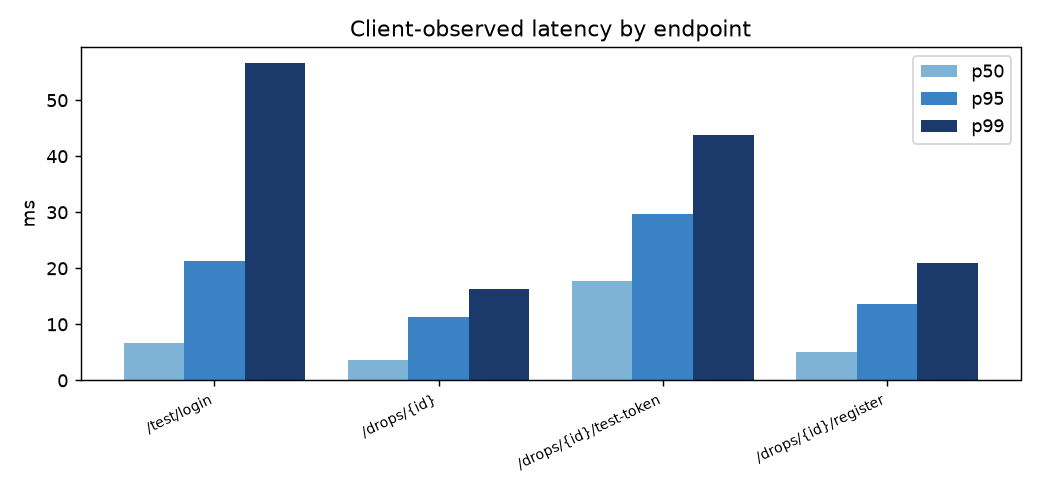
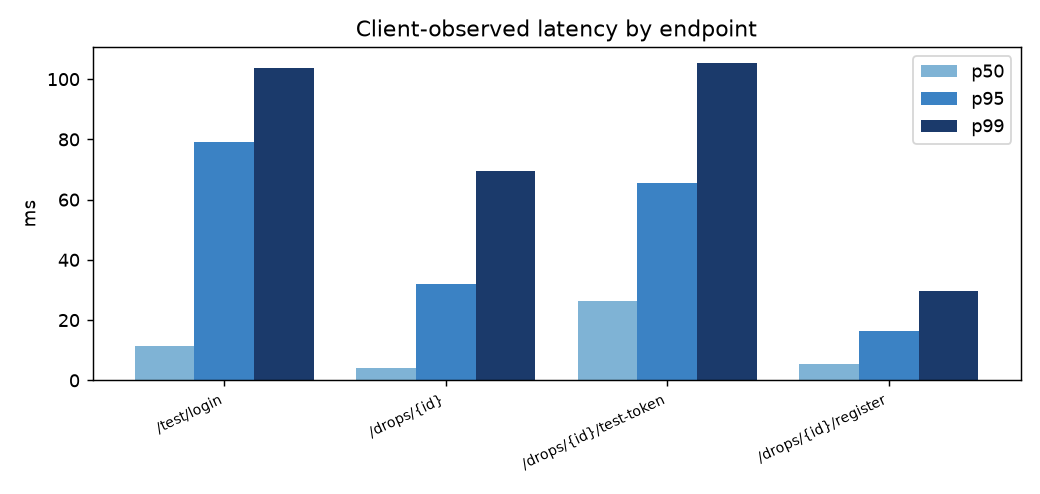
Rerun exp7 malicious demo (detected, audit 1); runbook and script claim only the proof

diff --git a/fair-drop/reports/exp7_malicious_server/summary.md b/fair-drop/reports/exp7_malicious_server/summary.md
@@ -2,7 +2,7 @@
 
 Experiment 7 - malicious server: it silently drops one entry; that fan's verify page must turn red with proof.
 
-*policy under test:* **fairdrop** &nbsp; *duration:* 23.2s &nbsp; *drop:* `exp-exp7_malicious_server-fairdrop-4866bd`
+*policy under test:* **fairdrop** &nbsp; *duration:* 23.3s &nbsp; *drop:* `exp-exp7_malicious_server-fairdrop-4866bd`
 
 ## Traffic
 - verified identities participating: **300** (300 humans, 0 bot identities across 0 operators)
@@ -26,10 +26,10 @@ Experiment 7 - malicious server: it silently drops one entry; that fan's verify 
 
 | endpoint | requests | rps | p50 | p95 | p99 | 5xx/conn errors | error rate | rejected by design (4xx) |
 |---|---|---|---|---|---|---|---|---|
-| POST /test/login | 300 | 13 | 7 ms | 21 ms | 57 ms | 0 | 0.0000% | 0 |
-| GET /drops/{id} | 300 | 13 | 4 ms | 11 ms | 16 ms | 0 | 0.0000% | 0 |
-| POST /drops/{id}/test-token | 300 | 13 | 18 ms | 30 ms | 44 ms | 0 | 0.0000% | 0 |
-| POST /drops/{id}/register | 300 | 13 | 5 ms | 14 ms | 21 ms | 0 | 0.0000% | 0 |
+| POST /test/login | 300 | 13 | 11 ms | 79 ms | 104 ms | 0 | 0.0000% | 0 |
+| GET /drops/{id} | 300 | 13 | 4 ms | 32 ms | 69 ms | 0 | 0.0000% | 0 |
+| POST /drops/{id}/test-token | 300 | 13 | 26 ms | 66 ms | 105 ms | 0 | 0.0000% | 0 |
+| POST /drops/{id}/register | 300 | 13 | 6 ms | 17 ms | 30 ms | 0 | 0.0000% | 0 |
 
 ## Integrity (must be 0)
 
@@ -39,11 +39,11 @@ Experiment 7 - malicious server: it silently drops one entry; that fan's verify 
  "duplicate_entries": 0,
  "duplicate_seats": 0,
  "invalid_transitions": 0,
- "missing_receipts": 0,
+ "missing_receipts": 1,
  "oversold": 0
 }
 ```
-audit chain valid: **True** (2 events)  -> overall: **OK**
+audit chain valid: **True** (607 events)  -> overall: **VIOLATIONS**
 
 ## Independent verification (Python reference verifier)
 
@@ -61,7 +61,7 @@ audit chain valid: **True** (2 events)  -> overall: **OK**
 
 ```
 {
[2 lines of base64/hex data omitted]
  "uid": "t_035906"
 }
 ```
@@ -74,8 +74,8 @@ audit chain valid: **True** (2 events)  -> overall: **OK**
  "victim_sees": "not_included",
  "control_proof_status": 200,
  "reference_verifier_flags_victim": true,
- "integrity_missing_receipts": 0,
- "detected": false
+ "integrity_missing_receipts": 1,
+ "detected": true
 }
 ```
 

diff --git a/fair-drop/DEMO_SCRIPT.md b/fair-drop/DEMO_SCRIPT.md
@@ -50,8 +50,9 @@ Companion to `docs/DEMO_RUNBOOK.md` (full detail). This is the order to talk thr
 ## 3:45 Malicious server
 
 - Admin → Test tools → Malicious demo, or `scripts/run_malicious_demo.sh`. The server silently drops one entry at lock.
-- Open that fan's verify page. The proof for the dropped receipt returns 404 `not_included`; the reference verifier fails on it.
-- **Known gap, say it honestly if asked:** the server's own integrity counter (`missing_receipts`) reported 0 in the last run, so Admin → Audit does not show the drop. See `DEMO_READINESS.md`. Do not promise a red Audit panel until it is fixed.
+- Request the dropped fan's proof: it returns 404 `not_included`. The control fan's proof returns 200.
+- The reference verifier (`verifier/verify.py`) rejects the published bundle for the dropped receipt. That is the evidence: anyone holding the receipt can check it without trusting the server.
+- Admin → Audit `missing_receipts` is a second check. It shows 1 in the 2026-10-04 rerun, but read 0 in an earlier run because that run's audit row was missing. Say so if asked. Do not promise a red Audit panel. See `DEMO_READINESS.md`.
 
 ## 4:15 Bots, visible live
 

diff --git a/fair-drop/docs/DEMO_RUNBOOK.md b/fair-drop/docs/DEMO_RUNBOOK.md
@@ -22,6 +22,6 @@ Also `/story` has a 3D scroll explanation.
 
 **3:00 Kill a replica.** Run exp6 or `scripts/kill_replica.sh 2` while Live monitor is open: replica goes DOWN, traffic continues via failover, comes back, integrity panel stays all zero.
 
-**3:30 Malicious server.** Test tools → Malicious demo (or `scripts/run_malicious_demo.sh`): server drops one entry at lock. Open that fan's verify page: **red banner**, proof fails; Admin → Audit shows `missing_receipts > 0`.
+**3:30 Malicious server.** Test tools → Malicious demo (or `scripts/run_malicious_demo.sh`): server drops one entry at lock. The dropped fan's proof request returns **404 `not_included`** while the control fan's returns 200, and the reference verifier rejects the bundle. That client-side evidence is the proof. Admin → Audit `missing_receipts` is a second, server-side check: it reads 1 only when the dropped receipt has an `entry_registered` audit row, and it read 0 in one earlier run (see `DEMO_READINESS.md`). Do not promise a red Audit panel.
 
 Reset between runs: Test tools → *Reset selected drop* (keeps users) or `scripts/reset.sh` (wipes everything).
